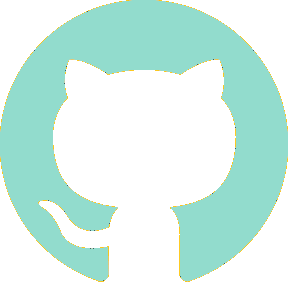
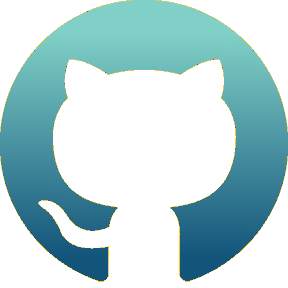
responsiveing

diff --git a/my-site/src/components/Projects.jsx b/my-site/src/components/Projects.jsx
@@ -2,9 +2,7 @@ import React from "react";
 import './Projects.css'
 import {  Link } from "react-router-dom";
 import SW from "./assets/Surgewindow.jpg";
-import BU from "./assets/BottomsWindow.jpg";
 import FX from "./assets/FXDBbanner.jpg";
-import CW from "./assets/ComedWindow.png";
 import PW from "./assets/ParkWindow.png";
 import LW from "./assets/Letters.png";
 import W1 from "./assets/Wumb1.png";
@@ -15,12 +13,14 @@ function Projects() {
   return (
     <div className="carousel-container">
       <div className="slider">
-        <a href="#slide-1">LW</a>
-        <a href="#slide-2">NC</a>
-        <a href="#slide-3">PS</a>
-        <a href="#slide-4">FX</a>
-        <a href="#slide-5">ST</a>
 
+{/* 
+        <a id="slider-button" href="#slide-1">LW</a>
+        <a id="slider-button" href="#slide-2">NC</a>
+        <a id="slider-button" href="#slide-3">PS</a>
+        <a id="slider-button" href="#slide-4">FX</a>
+        <a id="slider-button" href="#slide-5">ST</a>
+      */}
         <div className="slides">
 
           <div className="slide" id="slide-1 wumb">
@@ -90,7 +90,10 @@ function Projects() {
           </div>
     
         </div>
+
       </div>
+
+
     </div>
   );
 }

diff --git a/my-site/src/components/projects/Park.jsx b/my-site/src/components/projects/Park.jsx
@@ -1,12 +1,10 @@
 import React from 'react';
 import { Link} from 'react-router-dom'
 import ParkWindow from '../assets/ParkWindow.png';
-import CSSlogo from '../assets/Logos/css.svg';
 import Rails from '../assets/Logos/RailsLogo.svg';
-import Ruby from '../assets/Logos/ruby.svg';
 import ReactLogo from '../assets/Logos/react.svg';
 import SQL from'../assets/Logos/sql.svg';
-import GH from "../assets/GitHub.png";
+import GH from "../assets/GitHub2.png";
 
 export default function Park () {
 return (
@@ -35,7 +33,7 @@ return (
              <div className= "languageIcons">
             
                         <div className="project-icons">
-                            <img src ={CSSlogo} alt="icon" className="linkIcon" />
+                       
                             <img src ={ReactLogo} alt="icon" className="linkIcon" />
                             <img src ={SQL}  alt="icon" className="linkIcon" /> 
                             <img src ={Rails} alt="icon" className="linkIcon" />

diff --git a/my-site/src/components/projects/Wumb.jsx b/my-site/src/components/projects/Wumb.jsx
@@ -1,11 +1,9 @@
 import React from 'react';
 import { Link } from 'react-router-dom'
-import CSSlogo from '../assets/Logos/css.svg';
 import ReactLogo from '../assets/Logos/react.svg';
 import GH from "../assets/GitHub.png";
 import W1 from "../assets/Wumb1.png"
 import DJ from "../assets/Logos/DJSVG.svg"
-import Py from "../assets/Logos/PySVG.svg"
 
 
 
@@ -34,9 +32,7 @@ function Wumb(props) {
                 <div className ="languageIcons"> 
 
                 <div className="project-icons">
-                    <img src ={CSSlogo} alt="icon" className="linkIcon" />
                     <img src ={ReactLogo} alt="icon" className="linkIcon" />
-                    <img src ={Py} alt="icon"  className="linkIcon" />
                     <img src ={DJ} alt="icon" className="linkIcon" />
                     
                     <br />

diff --git a/my-site/src/components/Projects.css b/my-site/src/components/Projects.css
@@ -1,6 +1,5 @@
 .carousel-container {
-  
-    height: 130%;
+    height: 60vh;
     overflow: hidden;
     display: flex;
     align-items: center;
@@ -104,6 +103,16 @@
     
   }
 
+
+  #slider-button:hover{
+    transform: scale(1.3);
+  }
+
+  .carousel-icon:hover {
+    transform: scale(1.3);
+  }
+
+
   .slide p {
     color: #80d0c7
   }
@@ -113,3 +122,23 @@
       display: none;
     }
   }
+  @media only screen and (max-width: 1000px) {
+    .slide {
+      background-color: green;
+    }
+  }
+
+
+  @media only screen and (max-width: 800px) {
+    .slide {
+      background-color: white;
+    }
+  }
+
+
+  @media only screen and (max-width: 800px) {
+    .slide {
+      background-color: yellow;
+    }
+  }
+

diff --git a/my-site/src/components/projects/Letters.jsx b/my-site/src/components/projects/Letters.jsx
@@ -1,6 +1,5 @@
 import React from 'react';
 import { Link} from 'react-router-dom'
-import CSSlogo from '../assets/Logos/css.svg';
 import ReactLogo from '../assets/Logos/react.svg';
 import GH from "../assets/GitHub.png";
 import LW from "../assets/Letters.png"
@@ -34,7 +33,6 @@ function Letters(props) {
                 <div className ="languageIcons"> 
 
                 <div className="project-icons">
-                    <img src ={CSSlogo} alt="icon" className="linkIcon" />
                     <img src ={ReactLogo} alt="icon" className="linkIcon" />
                     <img src ={Py} alt="icon" className="linkIcon" />
                     <img src ={DJ} alt="icon" className="linkIcon" />

diff --git a/my-site/src/App.css b/my-site/src/App.css
@@ -338,6 +338,7 @@ p {
 @media only screen and (max-width: 800px) {
   .App {
     width: 100%;
+    background: red;
     /* text-align: center; */
   }
 
@@ -391,6 +392,13 @@ p {
   .project-text h3 {
     display: none; 
   }
+
+
+  .slide {
+    background-color: "purple";
+  }
+
+
   .title-container h1 {
     font-size: 45px;
   }
@@ -405,6 +413,7 @@ p {
 @media only screen and (max-width: 600px) {
   .App {
     width: 100%;
+    background: yellow;
   }
 
   .header h1 {
@@ -436,6 +445,11 @@ p {
 
   .pic-container {
     display: none;
+  }
+
+
+  .slide {
+    background:"fuscia";
   }
   .title-container {
     width: 100%;

diff --git a/my-site/src/components/projects/Stellar.jsx b/my-site/src/components/projects/Stellar.jsx
@@ -1,7 +1,6 @@
 import React from 'react';
 import { Link} from 'react-router-dom'
 import SW from '../assets/Surgewindow.jpg'
-import CSSlogo from '../assets/Logos/css.svg'
 import SQL from'../assets/Logos/sql.svg'
 import ReactLogo from '../assets/Logos/react.svg'
 import GH from "../assets/GitHub.png";
@@ -31,7 +30,6 @@ return (
             <div className= "languageIcons">
 
             <div className="project-icons">
-                <img src ={CSSlogo} alt="icon" className="linkIcon" />
                 <img src ={ReactLogo} alt="icon" className="linkIcon" />
                 <img src ={SQL} alt="icon" className="linkIcon" />
 

diff --git a/my-site/src/components/projects/Fxdb.jsx b/my-site/src/components/projects/Fxdb.jsx
@@ -35,8 +35,6 @@ return (
              <div className= "languageIcons">
             
                         <div className="project-icons">
-                            <img src ={ReactLogo} alt="icon"  className="linkIcon" />
-                            <img src ={CSSlogo} alt="icon" className="linkIcon" />
                             <img src ={ReactLogo} alt="icon" className="linkIcon" />
                             <img src ={SQL} alt="icon" className="linkIcon" /> 
                             <img src ={Rails} alt="icon" className="linkIcon" />
